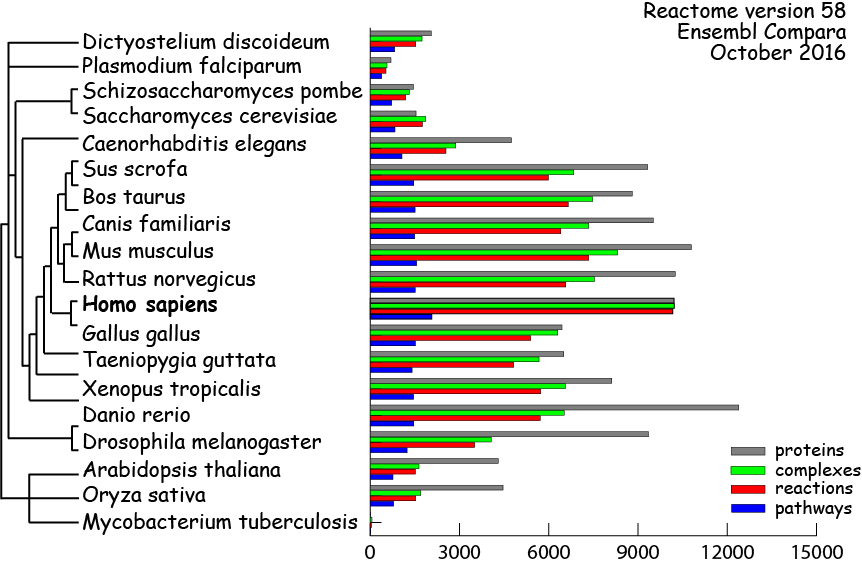
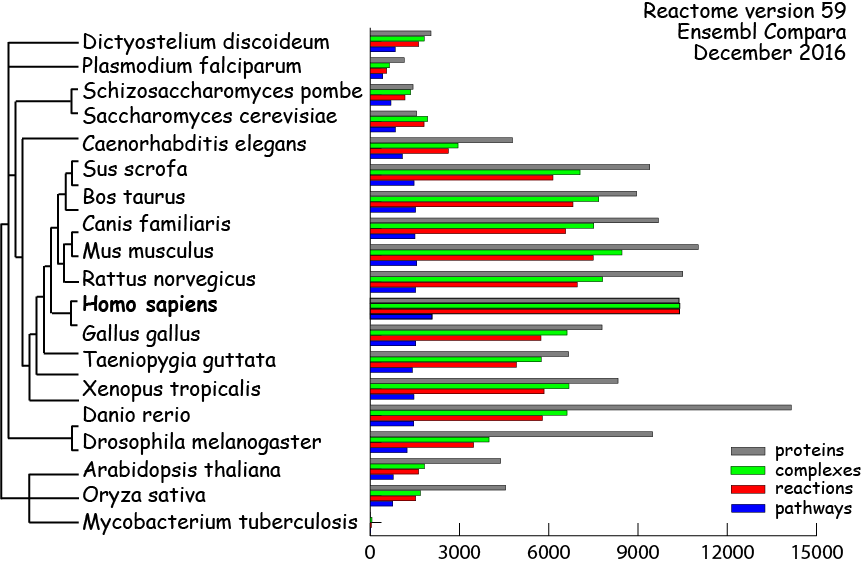
version 59

diff --git a/scripts/release/website_files_update/stats.html b/scripts/release/website_files_update/stats.html
@@ -7,7 +7,7 @@
 
     <body>
 	<!--#include virtual="/cgi-bin/navigation_bar" -->
-	<h1 class="frontpage">Reactome Statistics (Version 58)</h1>
+	<h1 class="frontpage">Reactome Statistics (Version 59)</h1>
 	    
 	<!-- Start of the stats table  -->
 	<table border="0" width="90%" cellpadding="0" cellspacing="0" class="classbrowser">
@@ -23,146 +23,146 @@
 		    
 		    <tr height="18" class="own">
 			<td height="25" class="own">D. discoideum</td>
-			<td class="own" align="center">2049</td>
-			<td class="own" align="center">1742</td>
-			<td class="own" align="center">1532</td>
-			<td class="own" align="center">822</td>
+			<td class="own" align="center">2042</td>
+			<td class="own" align="center">1815</td>
+			<td class="own" align="center">1631</td>
+			<td class="own" align="center">841</td>
 		    </tr>
 		    
 		    <tr height="18" class="own">
 			<td height="25" class="own">P. falciparum</td>
-			<td class="own" align="center">695</td>
-			<td class="own" align="center">561</td>
-			<td class="own" align="center">529</td>
-			<td class="own" align="center">382</td>
+			<td class="own" align="center">1144</td>
+			<td class="own" align="center">648</td>
+			<td class="own" align="center">555</td>
+			<td class="own" align="center">424</td>
 		    </tr>
 		    
 		    <tr height="18" class="own">
 			<td height="25" class="own">S. pombe</td>
-			<td class="own" align="center">1451</td>
-			<td class="own" align="center">1311</td>
-			<td class="own" align="center">1190</td>
-			<td class="own" align="center">721</td>
+			<td class="own" align="center">1440</td>
+			<td class="own" align="center">1362</td>
+			<td class="own" align="center">1167</td>
+			<td class="own" align="center">695</td>
 		    </tr>
 		    
 		    <tr height="18" class="own">
 			<td height="25" class="own">S. cerevisiae</td>
-			<td class="own" align="center">1540</td>
-			<td class="own" align="center">1864</td>
-			<td class="own" align="center">1751</td>
-			<td class="own" align="center">831</td>
+			<td class="own" align="center">1558</td>
+			<td class="own" align="center">1932</td>
+			<td class="own" align="center">1810</td>
+			<td class="own" align="center">850</td>
 		    </tr>
 		    
 		    <tr height="18" class="own">
 			<td height="25" class="own">C. elegans</td>
-			<td class="own" align="center">4741</td>
-			<td class="own" align="center">2877</td>
-			<td class="own" align="center">2547</td>
-			<td class="own" align="center">1067</td>
+			<td class="own" align="center">4780</td>
+			<td class="own" align="center">2954</td>
+			<td class="own" align="center">2627</td>
+			<td class="own" align="center">1084</td>
 		    </tr>
 		    
 		    <tr height="18" class="own">
 			<td height="25" class="own">S. scrofa</td>
-			<td class="own" align="center">9322</td>
-			<td class="own" align="center">6843</td>
-			<td class="own" align="center">5989</td>
-			<td class="own" align="center">1464</td>
+			<td class="own" align="center">9394</td>
+			<td class="own" align="center">7050</td>
+			<td class="own" align="center">6141</td>
+			<td class="own" align="center">1473</td>
 		    </tr>
 		    
 		    <tr height="18" class="own">
 			<td height="25" class="own">B. taurus</td>
-			<td class="own" align="center">8803</td>
-			<td class="own" align="center">7477</td>
-			<td class="own" align="center">6655</td>
-			<td class="own" align="center">1508</td>
+			<td class="own" align="center">8951</td>
+			<td class="own" align="center">7684</td>
+			<td class="own" align="center">6813</td>
+			<td class="own" align="center">1526</td>
 		    </tr>
 		    
 		    <tr height="18" class="own">
 			<td height="25" class="own">C. familiaris</td>
-			<td class="own" align="center">9510</td>
-			<td class="own" align="center">7343</td>
-			<td class="own" align="center">6404</td>
-			<td class="own" align="center">1496</td>
+			<td class="own" align="center">9683</td>
+			<td class="own" align="center">7514</td>
+			<td class="own" align="center">6566</td>
+			<td class="own" align="center">1504</td>
 		    </tr>
 		    
 		    <tr height="18" class="own">
 			<td height="25" class="own">M. musculus</td>
-			<td class="own" align="center">10791</td>
-			<td class="own" align="center">8313</td>
-			<td class="own" align="center">7342</td>
-			<td class="own" align="center">1558</td>
+			<td class="own" align="center">11020</td>
+			<td class="own" align="center">8459</td>
+			<td class="own" align="center">7491</td>
+			<td class="own" align="center">1568</td>
 		    </tr>
 		    
 		    <tr height="18" class="own">
 			<td height="25" class="own">R. norvegicus</td>
-			<td class="own" align="center">10248</td>
-			<td class="own" align="center">7537</td>
-			<td class="own" align="center">6573</td>
-			<td class="own" align="center">1513</td>
+			<td class="own" align="center">10506</td>
+			<td class="own" align="center">7810</td>
+			<td class="own" align="center">6957</td>
+			<td class="own" align="center">1528</td>
 		    </tr>
 		    
 		    <tr height="18" class="own">
 			<td height="25" class="own">*H. sapiens</td>
-			<td class="own" align="center">10212</td>
-			<td class="own" align="center">10214</td>
-			<td class="own" align="center">10168</td>
-			<td class="own" align="center">2069</td>
+			<td class="own" align="center">10374</td>
+			<td class="own" align="center">10399</td>
+			<td class="own" align="center">10391</td>
+			<td class="own" align="center">2080</td>
 		    </tr>
 		    
 		    <tr height="18" class="own">
 			<td height="25" class="own">G. gallus</td>
-			<td class="own" align="center">6441</td>
-			<td class="own" align="center">6305</td>
-			<td class="own" align="center">5388</td>
-			<td class="own" align="center">1517</td>
+			<td class="own" align="center">7790</td>
+			<td class="own" align="center">6615</td>
+			<td class="own" align="center">5737</td>
+			<td class="own" align="center">1533</td>
 		    </tr>
 		    
 		    <tr height="18" class="own">
 			<td height="25" class="own">T. guttata</td>
-			<td class="own" align="center">6504</td>
-			<td class="own" align="center">5674</td>
-			<td class="own" align="center">4823</td>
-			<td class="own" align="center">1405</td>
+			<td class="own" align="center">6666</td>
+			<td class="own" align="center">5746</td>
+			<td class="own" align="center">4915</td>
+			<td class="own" align="center">1419</td>
 		    </tr>
 		    
 		    <tr height="18" class="own">
 			<td height="25" class="own">X. tropicalis</td>
-			<td class="own" align="center">8120</td>
-			<td class="own" align="center">6560</td>
-			<td class="own" align="center">5730</td>
-			<td class="own" align="center">1456</td>
+			<td class="own" align="center">8328</td>
+			<td class="own" align="center">6677</td>
+			<td class="own" align="center">5841</td>
+			<td class="own" align="center">1468</td>
 		    </tr>
 		    
 		    <tr height="18" class="own">
 			<td height="25" class="own">D. rerio</td>
-			<td class="own" align="center">12384</td>
-			<td class="own" align="center">6518</td>
-			<td class="own" align="center">5714</td>
-			<td class="own" align="center">1464</td>
+			<td class="own" align="center">14148</td>
+			<td class="own" align="center">6617</td>
+			<td class="own" align="center">5784</td>
+			<td class="own" align="center">1467</td>
 		    </tr>
 		    
 		    <tr height="18" class="own">
 			<td height="25" class="own">D. melanogaster</td>
-			<td class="own" align="center">9348</td>
-			<td class="own" align="center">4065</td>
-			<td class="own" align="center">3508</td>
-			<td class="own" align="center">1237</td>
+			<td class="own" align="center">9487</td>
+			<td class="own" align="center">3996</td>
+			<td class="own" align="center">3472</td>
+			<td class="own" align="center">1239</td>
 		    </tr>
 		    
 		    <tr height="18" class="own">
 			<td height="25" class="own">A. thaliana</td>
-			<td class="own" align="center">4300</td>
-			<td class="own" align="center">1639</td>
-			<td class="own" align="center">1516</td>
-			<td class="own" align="center">766</td>
+			<td class="own" align="center">4381</td>
+			<td class="own" align="center">1821</td>
+			<td class="own" align="center">1624</td>
+			<td class="own" align="center">772</td>
 		    </tr>
 		    
 		    <tr height="18" class="own">
 			<td height="25" class="own">O. sativa</td>
-			<td class="own" align="center">4463</td>
-			<td class="own" align="center">1696</td>
-			<td class="own" align="center">1528</td>
-			<td class="own" align="center">784</td>
+			<td class="own" align="center">4550</td>
+			<td class="own" align="center">1690</td>
+			<td class="own" align="center">1530</td>
+			<td class="own" align="center">761</td>
 		    </tr>
 		    
 		    <tr height="18" class="own">
@@ -182,7 +182,7 @@
 
 	<div style="font-size:9pt;text-align:left;color:black;padding-top:10px;width=40%">
 	    *Reactome annotates to protein isoforms when this information is available.<br />
-	    The total number of curated human proteins including isoforms is 10365
+	    The total number of curated human proteins including isoforms is 10529
 	</div>
 
 	<!--#include virtual="/cgi-bin/footer" -->
